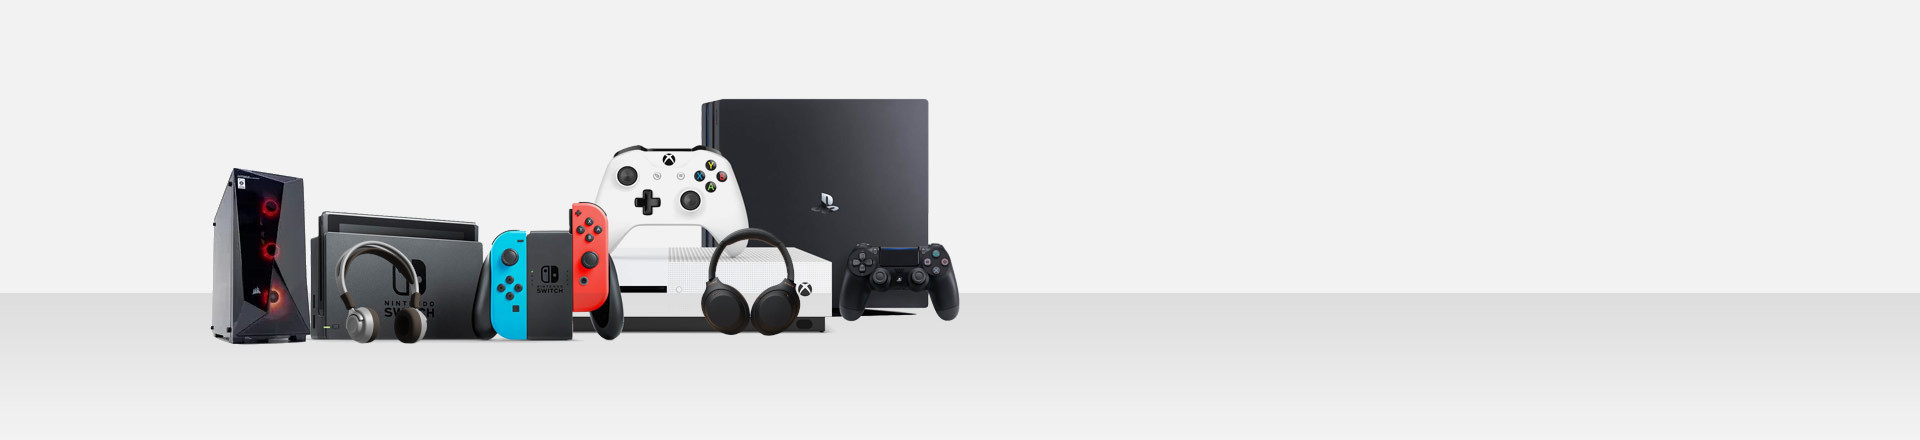
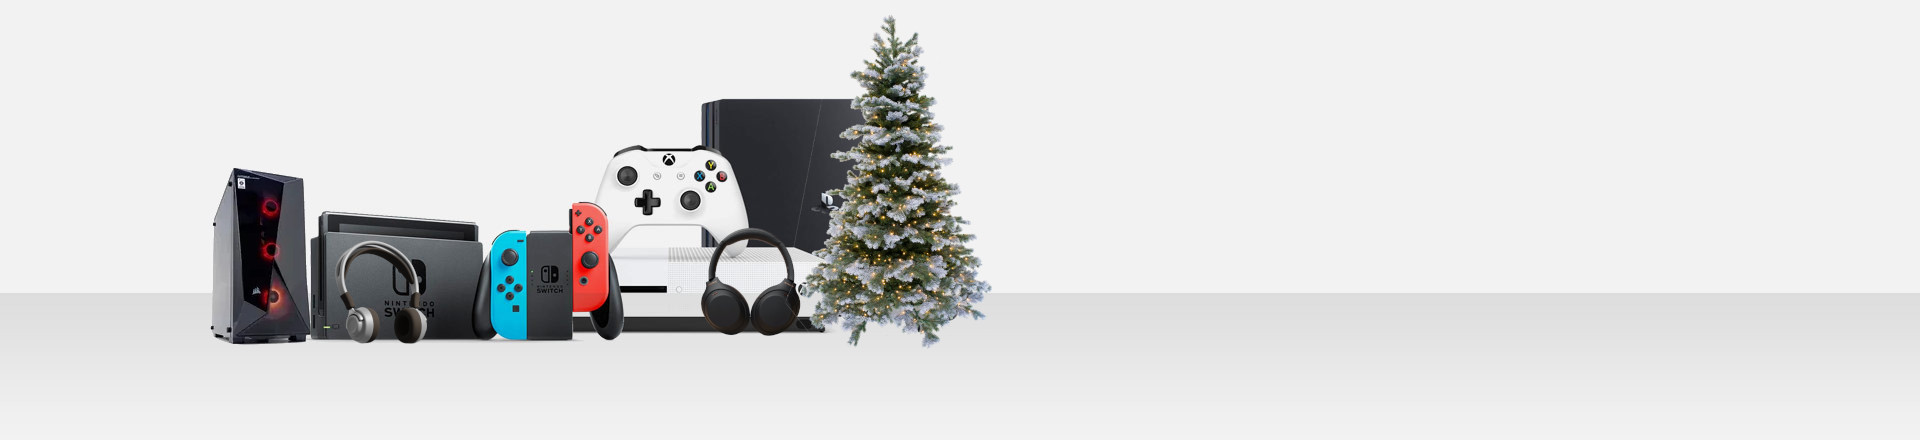
updated dealBanner and changed feature order

Changed region(s): [[0.4062, 0.0295, 0.5312, 0.7977]]

diff --git a/src/components/product/dealBanner/DealBanner.js b/src/components/product/dealBanner/DealBanner.js
@@ -1,6 +1,7 @@
 import Image from "next/image";
 import Link from "next/link";
 import arrow from "../../../assets/images/arrow.png";
+import christmasLights from "../../../assets/images/christmas-lights.png";
 import stars from "../../../assets/images/stars.png";
 import { insertDecimal } from "../../../utils/constants";
 import { ButtonAddCart } from "../../buttons/buttonAddCart/ButtonAddCart";
@@ -76,6 +77,11 @@ export const DealBanner = ({ dealBannerData }) => {
           {dealBannerFinalData[0].price} $
         </div>
       </div>
+      <Image
+        className={styles.deal__banner__lights}
+        src={christmasLights}
+        alt="Christmas Lights"
+      />
     </section>
   );
 };

diff --git a/src/components/product/dealBanner/DealBanner.module.css b/src/components/product/dealBanner/DealBanner.module.css
@@ -131,6 +131,15 @@
   animation-direction: reverse;
 }
 
+.deal__banner__lights {
+  position: absolute;
+  top: -40%;
+  right: 0;
+  transform: rotate(125deg);
+  width: 100px;
+  height: auto;
+}
+
 @keyframes snow {
   to {
     transform: translateY(650px);
@@ -189,6 +198,10 @@
 
   .background__price {
     font-size: 7rem;
+  }
+
+  .deal__banner__lights {
+    top: -60%;
   }
 }
 

diff --git a/src/pages/index.js b/src/pages/index.js
@@ -24,8 +24,8 @@ const Home = ({ newProductsData, dealBannerData }) => (
     <Hero />
     <ProductsBanner />
     <NewProducts newProductsData={newProductsData} />
-    <Features />
     <DealBanner dealBannerData={dealBannerData} />
+    <Features />
   </div>
 );
 

diff --git a/src/components/timer/Timer.module.css b/src/components/timer/Timer.module.css
@@ -12,3 +12,10 @@
   transform: translateY(1px);
   font-size: 1.8rem;
 }
+
+@media (max-width: 320px) {
+  .timer {
+    padding: 0.4rem 0rem;
+    font-size: 1.6rem;
+  }
+}

diff --git a/src/components/home/features/Features.module.css b/src/components/home/features/Features.module.css
@@ -23,6 +23,7 @@
 
 .features__content__box__description {
   font-size: 1.6rem;
+  line-height: 1.4;
   color: var(--dark-gray);
 }
 
